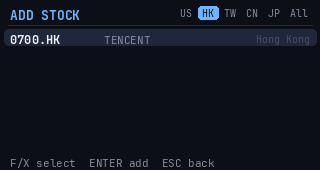
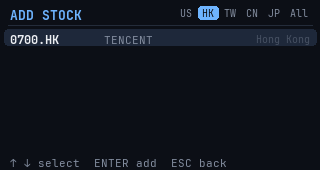
fix: arrow symbols in key hints, keep axis labels clear of the last price, faster text

diff --git a/views.py b/views.py
@@ -160,10 +160,11 @@ def draw_candles(d, candles, red_up, decimals):
             d.rectangle((x - 1, VOL[3] - vh, x + 1, VOL[3]), fill=tuple(k // 2 for k in col))
 
     ax = x1 + 4
-    d.text((ax, y0 - 6), fmt_axis(hi, decimals), font=F_TINY, fill=DIM)
-    d.text((ax, y1 - 6), fmt_axis(lo, decimals), font=F_TINY, fill=DIM)
     last = cs[-1]
     ly = y(last[4])
+    for v, vy in ((hi, y0), (lo, y1)):  # high/low labels, unless the last-price label covers them
+        if abs(vy - ly) > 12:
+            d.text((ax, vy - 6), fmt_axis(v, decimals), font=F_TINY, fill=DIM)
     col = up if last[4] >= last[1] else down
     dotted(d, x0, x1, ly, col, 3)
     d.rectangle((x1 + 2, ly - 6, W - 2, ly + 6), fill=col)
@@ -215,5 +216,5 @@ def render_detail(quote, chart, interval, red_up, now, status):
         d.text((x + w / 2, 148), lab, font=F_TINY, fill=BG if lab == interval else DIM, anchor='mm')
         x += w + 2
     d.text((W - 8, 148), span, font=F_TINY, fill=DIM, anchor='rm')
-    footer(d, status, 'Z/C period  F/X stock  ESC')
+    footer(d, status, '← → period  ↑ ↓ stock  ESC')
     return img

diff --git a/settings_ui.py b/settings_ui.py
@@ -53,5 +53,5 @@ class Settings:
             d.text((W - 12, y), right, font=F_TEXT, fill=col, anchor='ra')
         d.text((12, 94), 'Red up is the Taiwan / China convention.', font=F_SMALL, fill=DIM)
         d.text((12, 110), 'Closed markets refresh every 5 minutes.', font=F_SMALL, fill=DIM)
-        d.text((10, H - 15), 'F/X select  ENTER change  ESC back', font=F_SMALL, fill=DIM)
+        d.text((10, H - 15), '↑ ↓ select  ← → change  ESC back', font=F_SMALL, fill=DIM)
         return img

diff --git a/add_ui.py b/add_ui.py
@@ -132,4 +132,4 @@ class AddSymbol:
             d.text((W - 10, y + 1), right, font=F_TINY, fill=GREEN if added else FAINT,
                    anchor='ra')
             d.text((104, y + 1), clip(d, r['name'], F_SMALL, W - 160), font=F_SMALL, fill=DIM)
-        d.text((10, H - 15), 'F/X select  ENTER add  ESC back', font=F_SMALL, fill=DIM)
+        d.text((10, H - 15), '↑ ↓ select  ENTER add  ESC back', font=F_SMALL, fill=DIM)

diff --git a/theme.py b/theme.py
@@ -23,7 +23,8 @@ def font(name, size):
     for d in FONT_DIRS:
         p = os.path.join(d, name)
         if os.path.exists(p):
-            return ImageFont.truetype(p, size)
+            # BASIC layout: ASCII-only text renders faster than with raqm, and no ligatures
+            return ImageFont.truetype(p, size, layout_engine=ImageFont.Layout.BASIC)
     return ImageFont.load_default(size)
 
 
